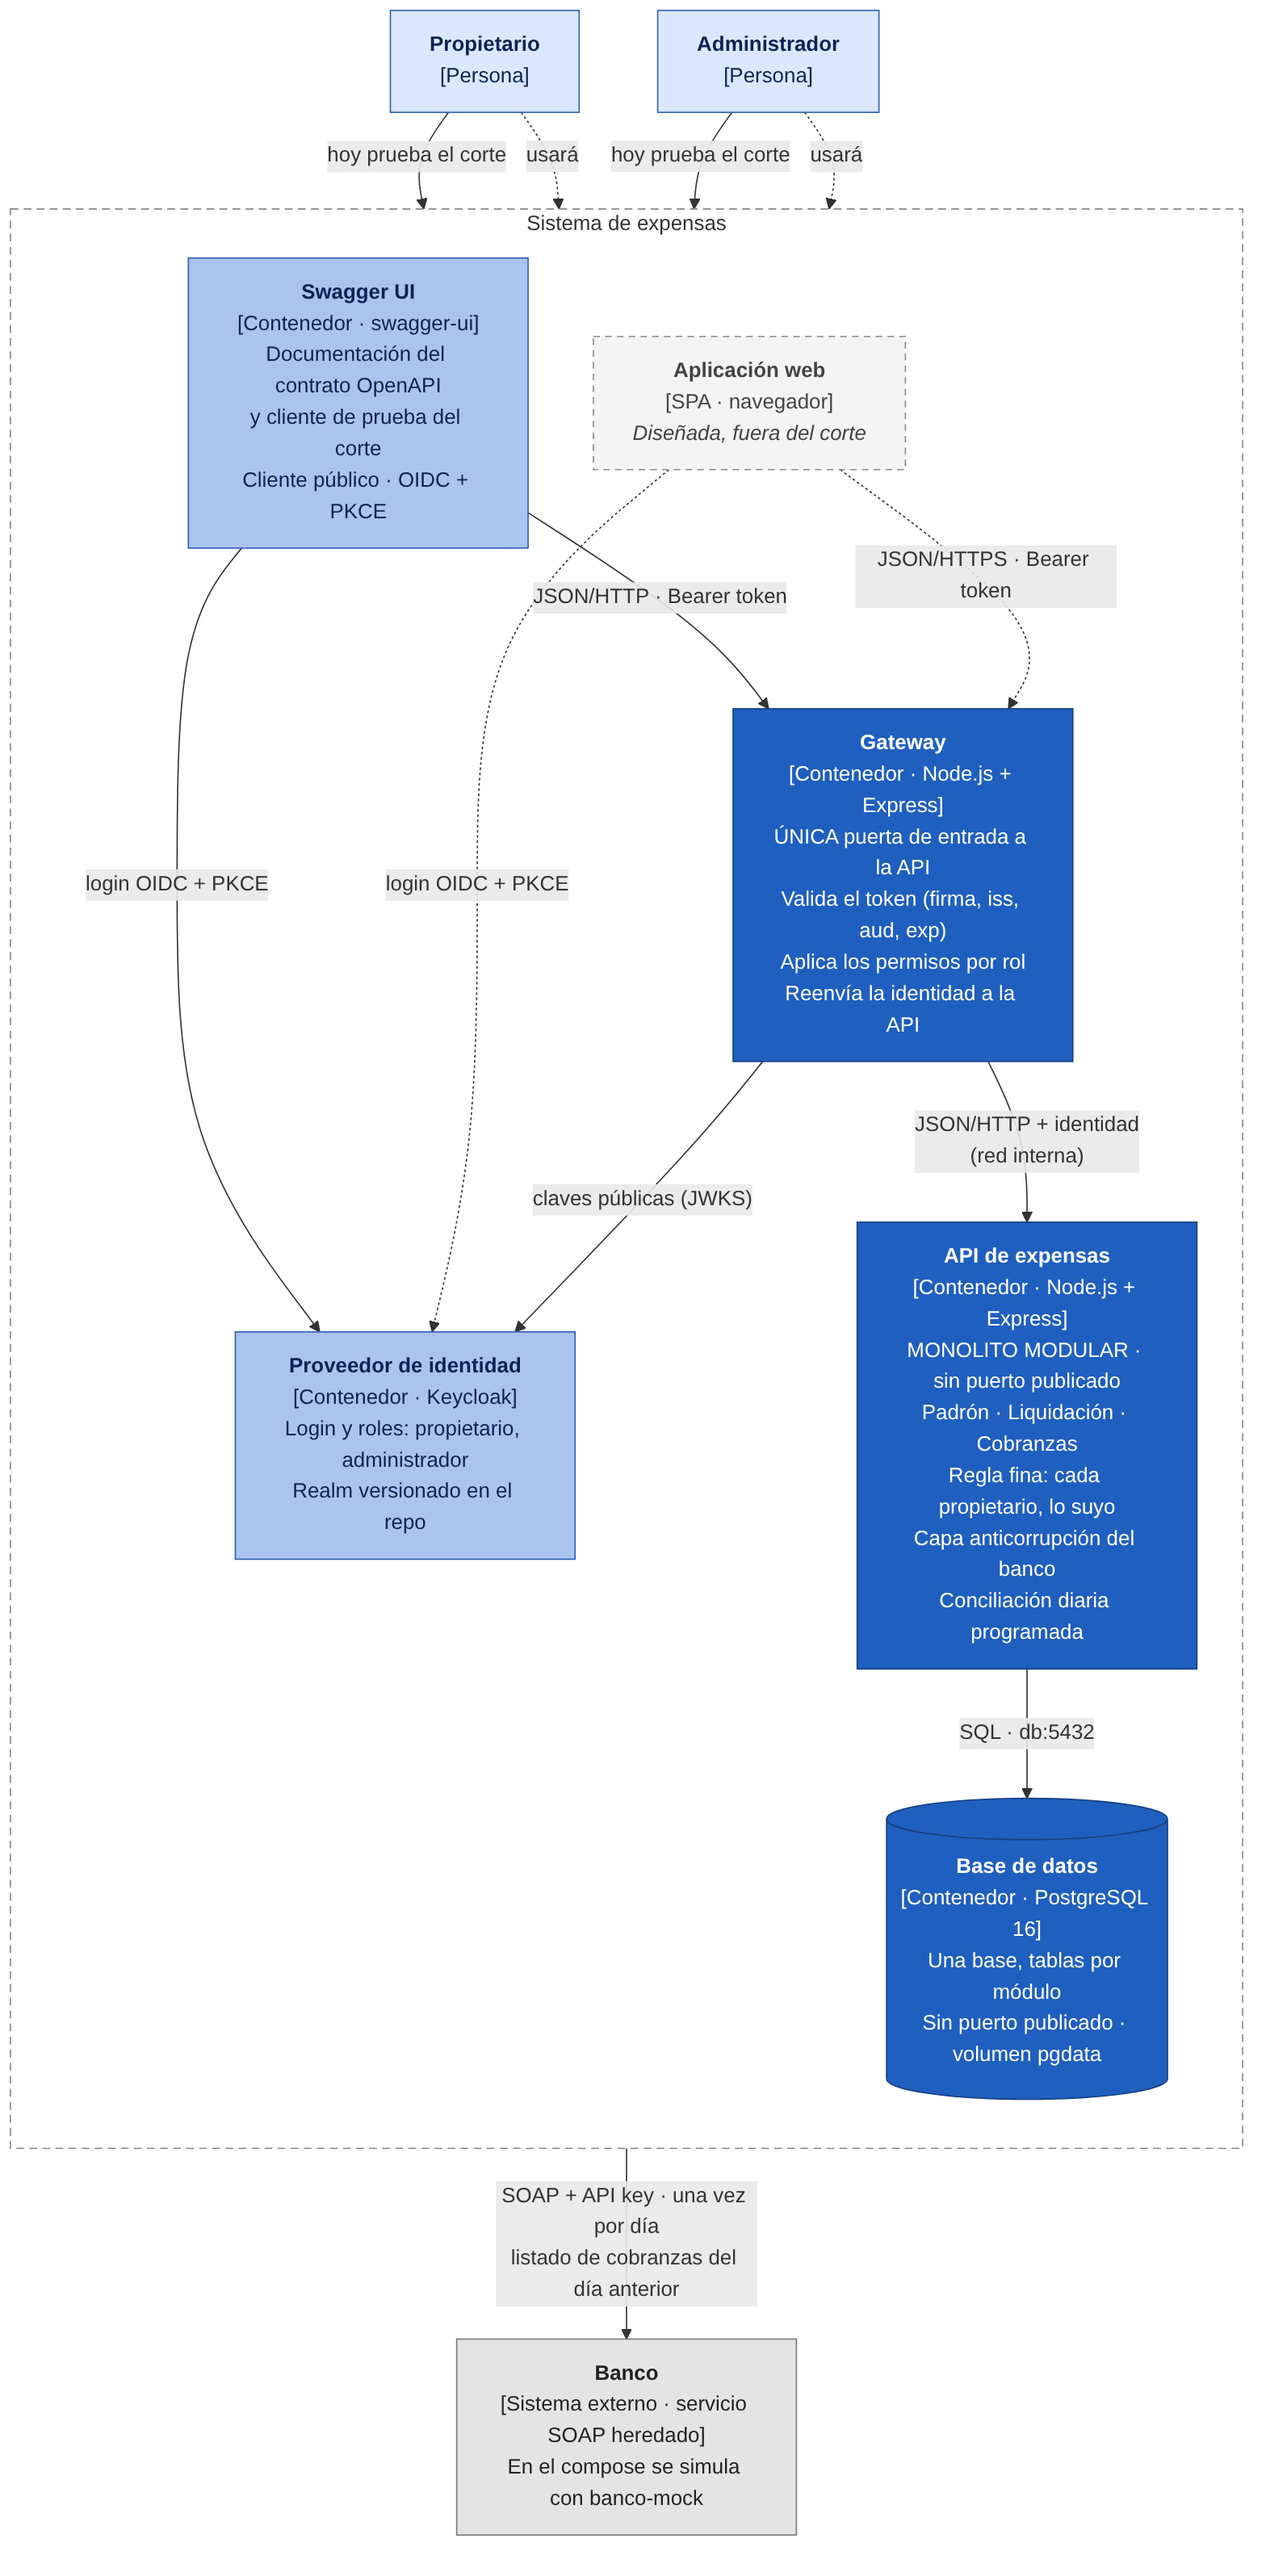
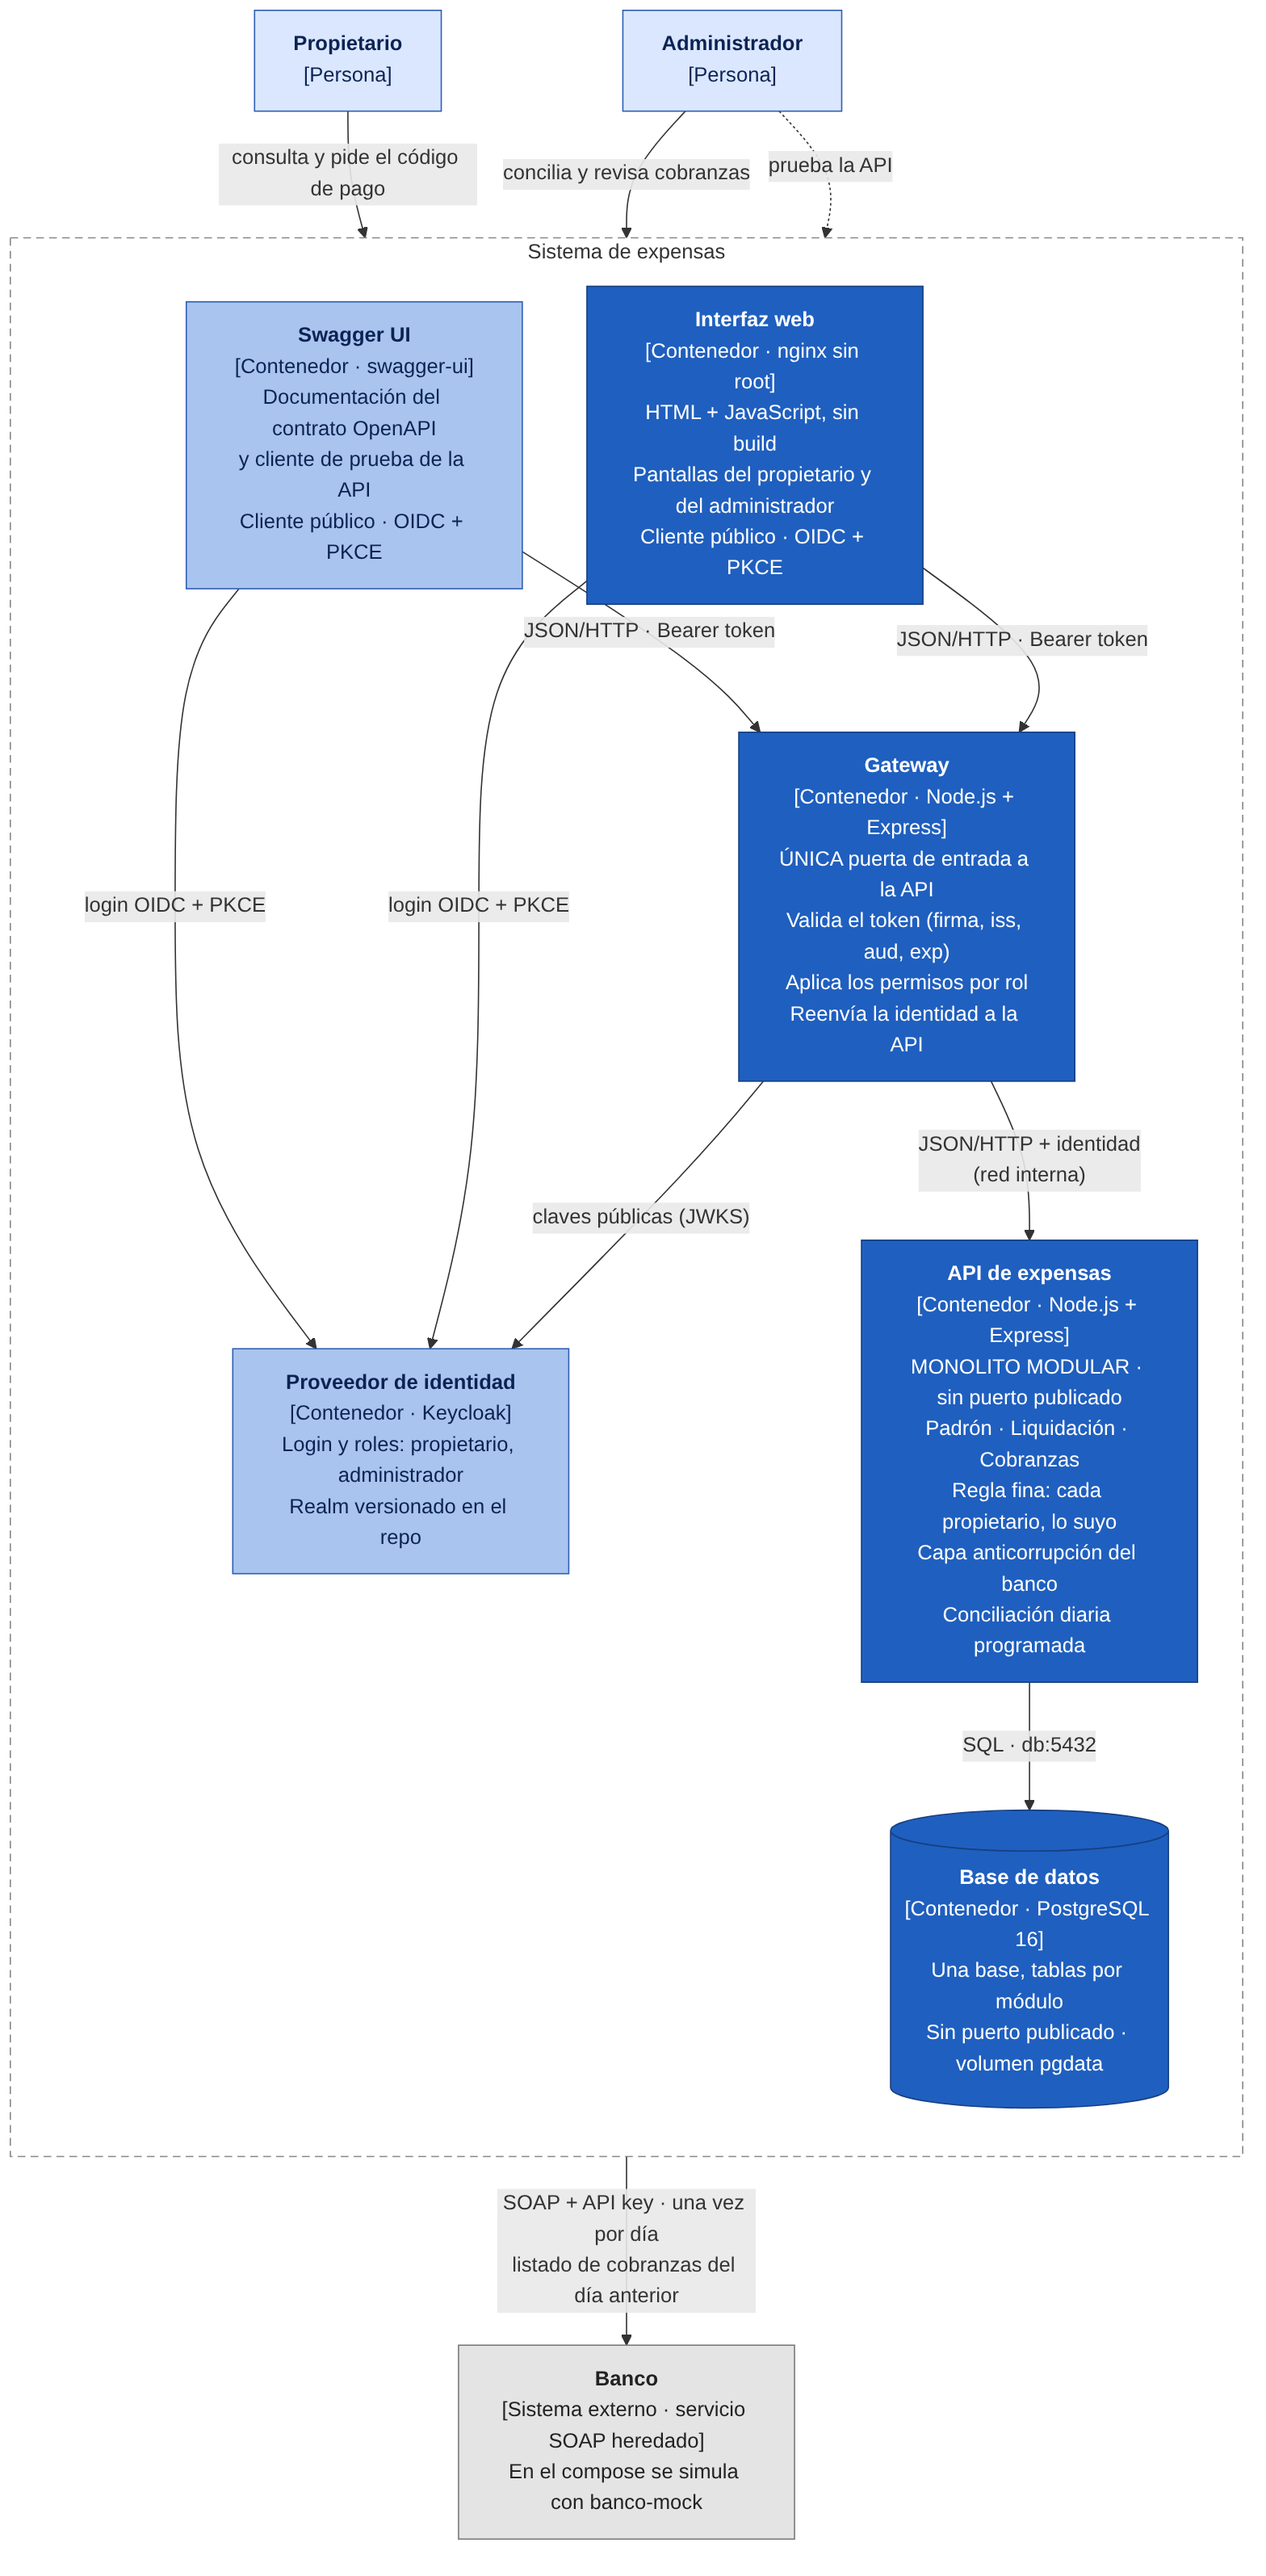
Documentación de la interfaz web: C4 de Contenedores, arquitectura (secciones 6, 9 y 10) y README

diff --git a/docs/arquitectura.md b/docs/arquitectura.md
@@ -193,9 +193,9 @@ Se comparan tres alternativas contra un baseline, que por definición puntúa 0 
 | Gateway | Node.js + Express | Única puerta de entrada a la API: valida el token, aplica los permisos por rol y reenvía la identidad del usuario a la API | En el compose desde el 29/10 |
 | API de expensas | Node.js + Express | Monolito modular con los módulos Padrón, Liquidación y Cobranzas, la capa anticorrupción del banco y la conciliación diaria programada. Aplica la regla fina (cada propietario, lo suyo). Sin puerto publicado desde el 29/10 | En el compose desde el 22/10 |
 | Base de datos | PostgreSQL 16 | Datos de los tres módulos, en tablas separadas por módulo. Sin puerto publicado, con volumen con nombre y healthcheck | En el compose desde el 22/10 |
-| Swagger UI | swagger-ui | Muestra el contrato OpenAPI y sirve como cliente de prueba del corte, con login OIDC | En el compose desde el 22/10 |
+| Swagger UI | swagger-ui | Muestra el contrato OpenAPI y sirve como cliente de prueba de la API, con login OIDC | En el compose desde el 22/10 |
 | Proveedor de identidad | Keycloak | Login y roles (propietario, administrador), con el realm versionado en el repo | En el compose desde el 29/10 |
-| Aplicación web | SPA en el navegador | Interfaz para propietarios y administrador | Diseñada, fuera del corte |
+| Interfaz web | HTML + JavaScript (con la librería `keycloak-js`), servido por nginx sin root | Pantallas para el propietario (sus expensas y el código de pago) y para el administrador (todas las expensas, conciliar y revisar las cobranzas). Es un cliente público de la API, como Swagger UI: llama al gateway con el token del usuario (ADR-011) | En el compose desde el 07/11 |
 
 **Memoria de cada contenedor** (medida con `docker stats` el 29/10, con el sistema en reposo, en Docker Desktop sobre Windows):
 
@@ -218,6 +218,7 @@ El proveedor de identidad es el 88 % de la memoria del sistema: es el costo más
 - **Sin BFF:** el esqueleto de la Clase 10 traía un BFF para una app mobile. Se elimina porque hay un solo tipo de cliente y el equipo es chico, que son justamente los casos en que un BFF no conviene.
 - **La conciliación corre dentro de la API**, como una tarea programada, en lugar de un contenedor aparte (ADR-004).
 - **El token se valida en un gateway** delante de la API (ADR-006). La API no publica su puerto: desde afuera solo se llega a ella a través del gateway.
+- **La interfaz web es un contenedor propio con páginas estáticas, sin build** (ADR-011). No tiene acceso a la red interna: usa la API a través del gateway, igual que cualquier otro cliente.
 
 ---
 
@@ -340,8 +341,8 @@ La **autorización**, en cambio, es en parte propia del dominio: el proveedor sa
 
 | Cliente | Tipo | Flujo |
 |---|---|---|
-| Swagger UI (cliente del corte) | Público: corre en el navegador y no puede guardar un secreto | Authorization Code con PKCE, con redirect URI exacto |
-| Aplicación web (diseñada, fuera del corte) | Público | Authorization Code con PKCE |
+| Swagger UI (`swagger-ui`), para documentar y probar la API | Público: corre en el navegador y no puede guardar un secreto | Authorization Code con PKCE, con redirect URI exacto |
+| Interfaz web (`web-expensas`) | Público | Authorization Code con PKCE mediante la librería oficial `keycloak-js`, con redirect URI acotado a `localhost:3001`. El token se renueva antes de cada llamada mientras dure la sesión |
 
 El token de acceso dura **5 minutos** y está emitido para la audiencia `api-expensas`: un token emitido para otra aplicación no sirve en esta.
 
@@ -376,7 +377,7 @@ Autenticar y autorizar es una capa de la seguridad. Las demás se resuelven así
 | Red y transporte | En producción, **TLS termina en el gateway**, con redirección a HTTPS y HSTS. En la demo no hay TLS porque todo corre en `localhost` | ADR-009 |
 | Cuentas | En producción, **segundo factor (TOTP) obligatorio para el administrador**, que es quien concilia el dinero. En la demo está desactivado | ADR-009 |
 | Integración con el banco | La API se autentica ante el banco con una **API key**, que vive en el `.env` | ADR-010 |
-| Aplicación web | El gateway agrega headers de seguridad, el CORS solo admite el origen propio y los errores no exponen detalles internos | — |
+| Aplicación web | El gateway agrega headers de seguridad, el CORS solo admite los orígenes propios (Swagger UI y la interfaz web) y los errores no exponen detalles internos. La interfaz tiene una política de seguridad de contenido (CSP) que solo permite sus propios archivos y las llamadas al gateway y al proveedor de identidad, y muestra los datos siempre como texto, nunca como HTML | ADR-006, ADR-011 |
 | Secretos | Las contraseñas reales van en el `.env`, fuera del repositorio. Las de los usuarios de prueba están en el realm versionado porque son de demostración; en producción vendrían de un gestor de secretos | — |
 
 ## 10. Decisiones de arquitectura (ADRs)
@@ -393,6 +394,7 @@ Autenticar y autorizar es una capa de la seguridad. Las demás se resuelven así
 | [ADR-008](adr/ADR-008-minimo-privilegio.md) | Mínimo privilegio: usuario de base propio y contenedores sin root | Aceptada |
 | [ADR-009](adr/ADR-009-tls-y-mfa.md) | TLS y segundo factor: diseñados para producción, desactivados en la demo | Aceptada |
 | [ADR-010](adr/ADR-010-autenticacion-con-el-banco.md) | Autenticación con el banco mediante API key | Aceptada |
+| [ADR-011](adr/ADR-011-interfaz-web.md) | Interfaz web estática, en su propio contenedor | Aceptada |
 
 ## 11. Verificación de NFRs
 

diff --git a/README.md b/README.md
@@ -11,7 +11,7 @@ Dominio 5 · Expensas de consorcios · Escenario **5A — Administrador independ
 ## Documentación
 
 - [Documento de arquitectura](docs/arquitectura.md): problema y escenario, dominio, NFRs, matriz de Pugh y estilo, C4 de Contexto y de Contenedores, modelo de dominio, API, seguridad y verificación de los NFRs.
-- [Decisiones de arquitectura (ADRs)](docs/adr/): ADR-001 a ADR-010.
+- [Decisiones de arquitectura (ADRs)](docs/adr/): ADR-001 a ADR-011.
 - [Contrato de la API (OpenAPI)](openapi.yaml)
 - [Verificación manual de los NFRs](docs/verificacion.md): 18 pruebas con sus resultados y capturas.
 
@@ -47,10 +47,13 @@ docker compose up -d --build
 
 Si no se hace, la API puede responder 500 porque su usuario de base todavía no existe (en el log: `password authentication failed`). `down -v` también vacía los pagos cargados en el banco simulado.
 
+Keycloak, en cambio, importa el realm (`keycloak/realm-expensas.json`) cuando se crea su contenedor. Si cambia el realm, alcanza con recrearlo: `docker compose up -d --force-recreate keycloak` (`down -v` también lo recrea).
+
 ## Servicios
 
 | Servicio | URL | Qué es |
 |---|---|---|
+| Interfaz web | http://localhost:3001 | Pantallas para el propietario y el administrador, con login |
 | Swagger UI | http://localhost:8080 | Documentación del contrato y cliente de prueba, con login |
 | Gateway | http://localhost:8000 | Única puerta de entrada a la API: valida el token y aplica los permisos por rol |
 | Keycloak | http://localhost:8180 | Proveedor de identidad. Consola: usuario `admin` y la contraseña de `KEYCLOAK_ADMIN_PASSWORD` |
@@ -82,12 +85,14 @@ El token dura 5 minutos: si un pedido devuelve 401, hay que volver a hacer **Aut
 
 ## Recorrido de la demo: de la expensa al pago conciliado
 
-1. **Pedir el código de pago.** Como `paula`: `PUT /v1/expensas/1/codigo-pago`. Responde 201 con el código (`00000000018`) y el importe en centavos (`5020001`). Repetirlo devuelve el mismo código con 200.
-2. **Pagar en el banco.** En la consola del banco (http://localhost:8090), registrar un pago con ese código, el importe **en pesos** (`50200,01`, o sea los centavos divididos por 100) y la fecha del pago.
-3. **Conciliar.** Como `adriana`: `POST /v1/conciliaciones` con `{"fecha": "AAAA-MM-DD"}`, la fecha del pago. Responde 201 con la corrida: cuántas cobranzas leyó, imputó u observó.
-4. **Ver la expensa pagada.** Como `paula`: `GET /v1/expensas/1` muestra `"estado": "PAGADA"` y el pago imputado.
+Se hace desde la interfaz web (http://localhost:3001, botón **Ingresar**). Entre paréntesis, el endpoint equivalente para hacerlo desde Swagger UI.
 
-Si el importe no es exacto, o el código no existe, o la expensa ya estaba pagada, la cobranza queda **observada** con su motivo (`GET /v1/cobranzas`, como `adriana`). Conciliar de nuevo la misma fecha no duplica nada. Con **Simular caída** en la consola del banco, la conciliación responde 502 y la corrida queda registrada con error para reintentarla.
+1. **Pedir el código de pago.** Como `paula`: entrar a la expensa de la unidad 2B y tocar **Obtener código de pago** (`PUT /v1/expensas/1/codigo-pago`). Muestra el código (`00000000018`) y el importe ($ 50.200,01). Pedirlo de nuevo devuelve el mismo código.
+2. **Pagar en el banco.** En la consola del banco (http://localhost:8090), registrar un pago con ese código, el importe **en pesos** (`50200,01`) y la fecha del pago.
+3. **Conciliar.** **Salir** y entrar como `adriana`: en la pestaña **Conciliar**, elegir la fecha del pago (`POST /v1/conciliaciones` con `{"fecha": "AAAA-MM-DD"}`). Muestra la corrida: cuántas cobranzas leyó, imputó u observó.
+4. **Ver la expensa pagada.** Como `paula`, la expensa aparece **Pagada**, con la fecha y la operación del banco (`GET /v1/expensas/1`).
+
+Si el importe no es exacto, o el código no existe, o la expensa ya estaba pagada, la cobranza queda **observada** con su motivo (pestaña **Cobranzas** del administrador, o `GET /v1/cobranzas`). Conciliar de nuevo la misma fecha no duplica nada. Con **Simular caída** en la consola del banco, la conciliación responde 502 y la corrida queda registrada con error para reintentarla.
 
 ### Conciliación automática
 
